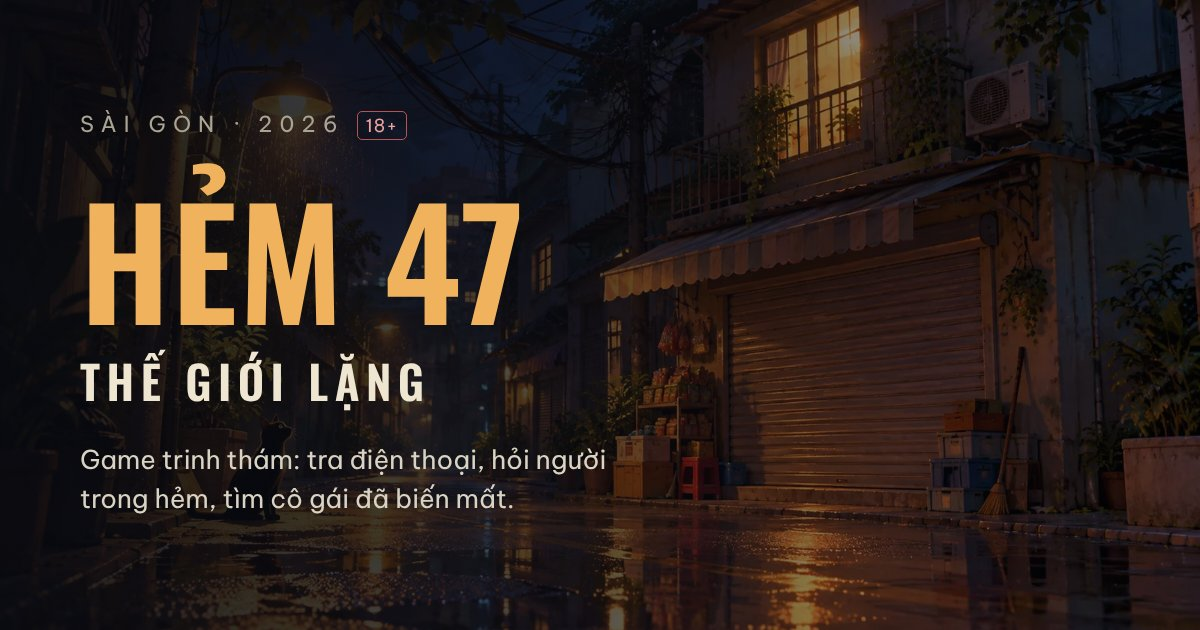
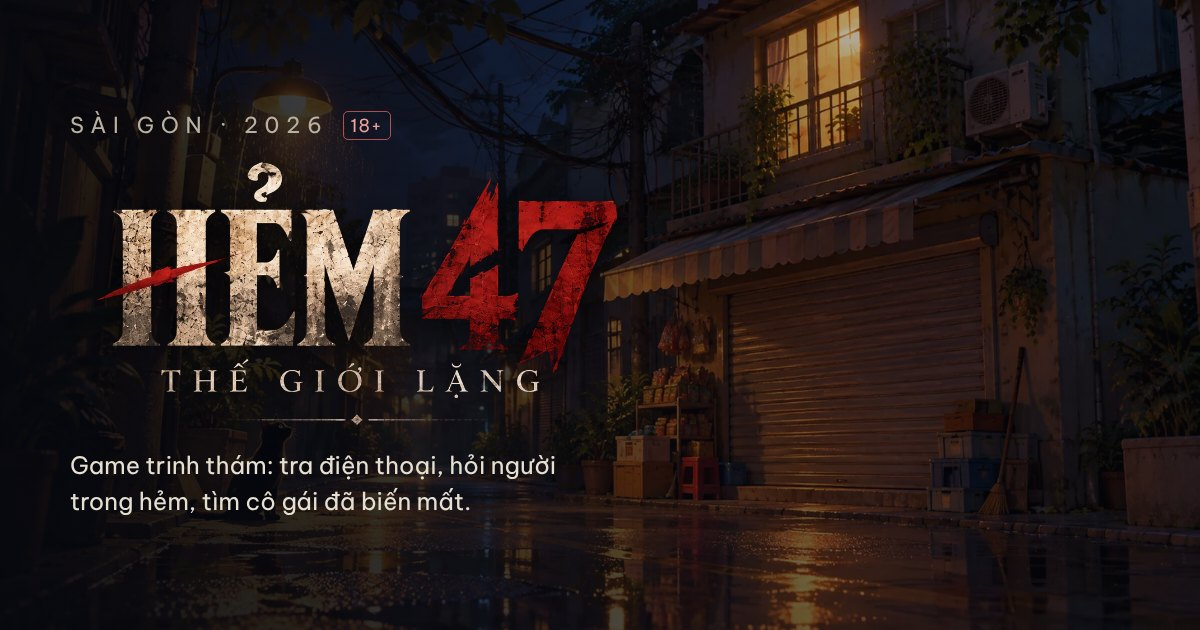
Thẻ khoe kết quả và ảnh chia sẻ link: dùng tựa Hẻm 47 mới
Claude-Session: https://claude.ai/code/session_01Prjg1zCqNMnizKkndQXFSR

diff --git a/index.html b/index.html
@@ -2456,8 +2456,11 @@ async function kqCanvas(k){ const W=1080,H=1350, c=document.createElement('canva
   if(im){ const sc=Math.max(W/im.width,H*.62/im.height), w=im.width*sc, h=im.height*sc; g.drawImage(im,(W-w)/2,0,w,h); }
   let gr=g.createLinearGradient(0,0,0,H); gr.addColorStop(0,'rgba(11,13,20,.55)'); gr.addColorStop(.32,'rgba(11,13,20,.15)'); gr.addColorStop(.58,'rgba(11,13,20,.92)'); gr.addColorStop(1,'#0b0d14'); g.fillStyle=gr; g.fillRect(0,0,W,H);
   try{ await Promise.all([document.fonts.load('600 120px Oswald, "Arial Narrow", sans-serif'),document.fonts.load('400 40px "Be Vietnam Pro", sans-serif'),document.fonts.load('600 40px "Be Vietnam Pro", sans-serif')]); }catch(e){}
-  g.textAlign='center'; g.fillStyle='#f0b25c'; g.font='600 132px Oswald, "Arial Narrow", sans-serif'; g.fillText('HẺM 47',W/2,190);
-  g.fillStyle='#efe6d2'; g.font='600 46px Oswald, "Arial Narrow", sans-serif'; if('letterSpacing' in g) g.letterSpacing='8px'; g.fillText('THẾ GIỚI LẶNG',W/2,258); if('letterSpacing' in g) g.letterSpacing='0px';
+  g.textAlign='center';
+  const tua=await new Promise(r=>{ const i=new Image(); i.onload=()=>r(i); i.onerror=()=>r(null); i.src='img/tua.webp'; });
+  if(tua){ const tw=640, th=tw*tua.height/tua.width; g.shadowColor='rgba(0,0,0,.6)'; g.shadowBlur=24; g.drawImage(tua,(W-tw)/2,36,tw,th); g.shadowBlur=0; g.shadowColor='transparent'; }
+  else { g.fillStyle='#f0b25c'; g.font='600 132px Oswald, "Arial Narrow", sans-serif'; g.fillText('HẺM 47',W/2,190);
+    g.fillStyle='#efe6d2'; g.font='600 46px Oswald, "Arial Narrow", sans-serif'; if('letterSpacing' in g) g.letterSpacing='8px'; g.fillText('THẾ GIỚI LẶNG',W/2,258); if('letterSpacing' in g) g.letterSpacing='0px'; }
   g.fillStyle='#a9a493'; g.font='500 30px "Be Vietnam Pro", sans-serif'; if('letterSpacing' in g) g.letterSpacing='6px'; g.fillText('KẾT THÚC · NGÀY '+S.day+'/'+TOTAL_DAYS,W/2,860); if('letterSpacing' in g) g.letterSpacing='0px';
   g.fillStyle='#ffffff'; g.font='600 92px Oswald, "Arial Narrow", sans-serif'; g.fillText(String(ENDS[k][1]).toUpperCase(),W/2,965);
   const got=Object.keys(ENDS).filter(x=>lsGet('tgl6_end_'+x)).length, tt=TT.filter(a=>ttGot()[a.k]).length;
